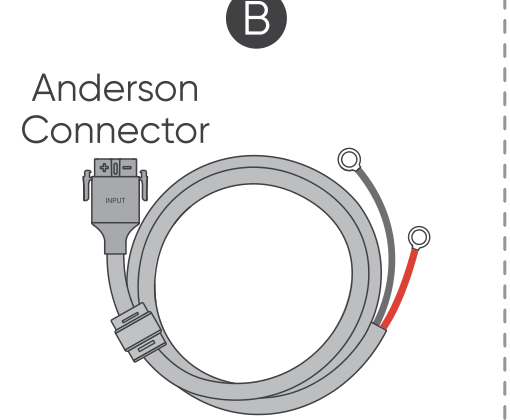
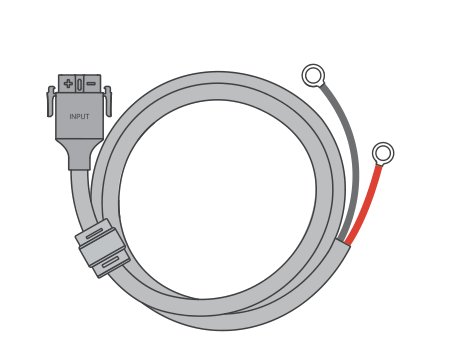
fix(web): replace JA-AD600A figures from AI source

diff --git a/tests/test_ja_ad600a_eu_en_target.py b/tests/test_ja_ad600a_eu_en_target.py
@@ -152,13 +152,23 @@ class JaAd600aEuEnTargetTests(unittest.TestCase):
     def test_approved_recipe_registry_and_manifest_hashes_match(self) -> None:
         recipe = json.loads(RECIPE.read_text(encoding="utf-8"))
         manifest = json.loads(ILLUSTRATIONS.read_text(encoding="utf-8"))
[1 lines of base64/hex data omitted]
-        self.assertEqual(source_hash, recipe["source"]["expected_sha256"])
-        self.assertEqual(source_hash, manifest["source_pdf_sha256"])
[2 lines of base64/hex data omitted]
+        self.assertEqual(artwork_hash, recipe["source"]["expected_sha256"])
+        self.assertEqual(source_pdf_hash, manifest["source_pdf_sha256"])
+        self.assertEqual(artwork_hash, manifest["source_artwork_sha256"])
+        self.assertEqual(15, manifest["source_artwork_page_count"])
         self.assertEqual(16, len(recipe["assets"]))
         self.assertEqual(16, len(manifest["illustrations"]))
         self.assertTrue(all(asset["build_eligible"] for asset in recipe["assets"]))
         self.assertTrue(all(asset["gate"]["status"] == "approved" for asset in recipe["assets"]))
+        self.assertEqual(
+            4,
+            sum(
+                any(transform["op"] == "redact_text" for transform in asset["transforms"])
+                for asset in recipe["assets"]
+            ),
+        )
 
         registry = load_registry(ROOT / "data" / "asset_registry.csv")
         for asset in recipe["assets"]:

diff --git a/code-as-doc/reviews/ja_ad600a_eu_en_web_intake_2026-09.md b/code-as-doc/reviews/ja_ad600a_eu_en_web_intake_2026-09.md
@@ -7,6 +7,7 @@
 - Source file: `Jackery_DC-DC_Charger_User_Manual_JA-AD600A_EUUK_V2.0_2026-05-29.pdf`.
[1 lines of base64/hex data omitted]
 - Physical PDF: 88 pages; English manual body is physical pages 4–17 (printed pages 01–14).
[1 lines of base64/hex data omitted]
 - Front cover, blank page, contents, printed page numbers, and non-English pages are not Web body content.
 - No DingTalk live-table writes, queue dispatch, IDML, or Japanese work are part of this change.
 
@@ -27,25 +28,26 @@ Native Web content owns headings, paragraphs, lists, compatibility/status tables
 
 | Source page | Web component | Ownership |
 |---|---|---|
-| 5 | specifications + dimensions | Native spec table; complete cropped dimension figure |
-| 6 | inbox + overview | Nine responsive cards; complete product overview figure |
+| PDF 5 / AI 3 | specifications + dimensions | Native spec table; complete AI-source dimension figure |
+| PDF 6 / AI 4 | inbox + overview | Nine responsive cards with clean item-only AI crops; complete product overview figure |
 | 7–8 | safety, compatibility, power state | Native copy, tables, and warning callout |
 | 9 | FAQ | Native searchable copy |
-| 10 | installation diagram | Complete gray installation frame and legend |
+| PDF 10 / AI 8 | installation diagram | Complete gray installation frame and legend |
 | 11–12 | safety and pre-installation | Native copy and warning callout |
 | 13 | wiring | Complete three-frame art + adjacent native steps |
 | 14 | vehicle-body mounting | Complete four-frame art + adjacent native steps |
 | 15 | modification-panel mounting | Complete three-frame art + adjacent native steps |
-| 16 | connection + daily use + FCC | Complete connection art; other content remains native |
+| PDF 16 / AI 14 | connection + daily use + FCC | Complete connection art; other content remains native |
 | 17 | warranty | Shared warranty cards with one 2-year period |
 
-The approved recipe archives all 88 source pages and exports 16 target-scoped PNGs. A cold asset replay produced 192 artifacts: 88 page archives, 88 previews, and 16 exports. Every export is hash-locked in the recipe, registry, and illustration manifest.
+The approved artwork recipe archives all 15 Illustrator pages and exports 16 target-scoped PNGs. A cold AI-source replay produced 46 artifacts: 15 page archives, 15 previews, and 16 exports. Every export is hash-locked in the recipe, registry, and illustration manifest. The DingTalk PDF remains the authority for native Web copy and specifications.
 
 ## Source normalization and known debt
 
 - Source line wraps and soft hyphenation were normalized for Web prose.
 - The obvious source spelling `Phillios screwdriver` was corrected to `Phillips screwdriver`.
 - The source FAQ Q4 contains the phrase `If the voltage of is higher`. It is retained to avoid inventing an engineering correction; source-owner clarification remains editorial debt.
+- Inbox cable and fuse exports remove AI layout labels, letter markers, and separator lines because those labels are native Web card copy; the complete object drawings remain intact.
 - There is no LCD, UPS, App, or troubleshooting-table debt for this charger. Those power-station capabilities are not applicable and are explicitly exempted.
 
 ## Publication boundary

diff --git a/code-as-doc/tests/ja_ad600a_eu_en_web_acceptance.md b/code-as-doc/tests/ja_ad600a_eu_en_web_acceptance.md
@@ -3,7 +3,7 @@
 ## Target result
 
 - Nine Web source pages: disclaimer, specifications, dimensions, inbox, overview, safety, FAQ, installation, and warranty.
-- Sixteen source-derived images; no whole-page screenshot.
+- Sixteen exports regenerated from the user-supplied PDF-compatible Illustrator source; no whole-page screenshot.
 - Nine responsive inbox cards.
 - Five governed installation figures, all reported as `finished-panel` with zero editable fallback and zero missing slots.
 - One native specification composition, two warning callouts, and a six-section warranty with a 2-year badge.
@@ -41,7 +41,7 @@ python -m unittest \
 - Sphinx 8.2.3 `-W`: passed with zero warnings.
 - Target regressions: 15 tests passed, including source-snapshot identity and tamper rejection.
 - Repository unit suite: 3,864 tests passed; 22 skipped.
-- Browser visual QA: desktop and 375 × 812 mobile views passed. Inbox cards reflow from multiple columns to one column; installation figures retain complete gray frames and labels; the 2-year warranty badge and cards remain readable; no broken images or horizontal crop was observed.
+- Browser visual QA: desktop and 375 × 812 mobile views passed. Inbox cards use clean item-only AI crops without letter tags, connector-label copy, or layout grid marks; installation figures retain complete gray frames and labels; the 2-year warranty badge and cards remain readable; no broken images or horizontal crop was observed.
 - Local preview route: `http://127.0.0.1:18821/manual_jaad600a_eu_en.html` while the documented local server is running.
 
 ## Evidence boundary
